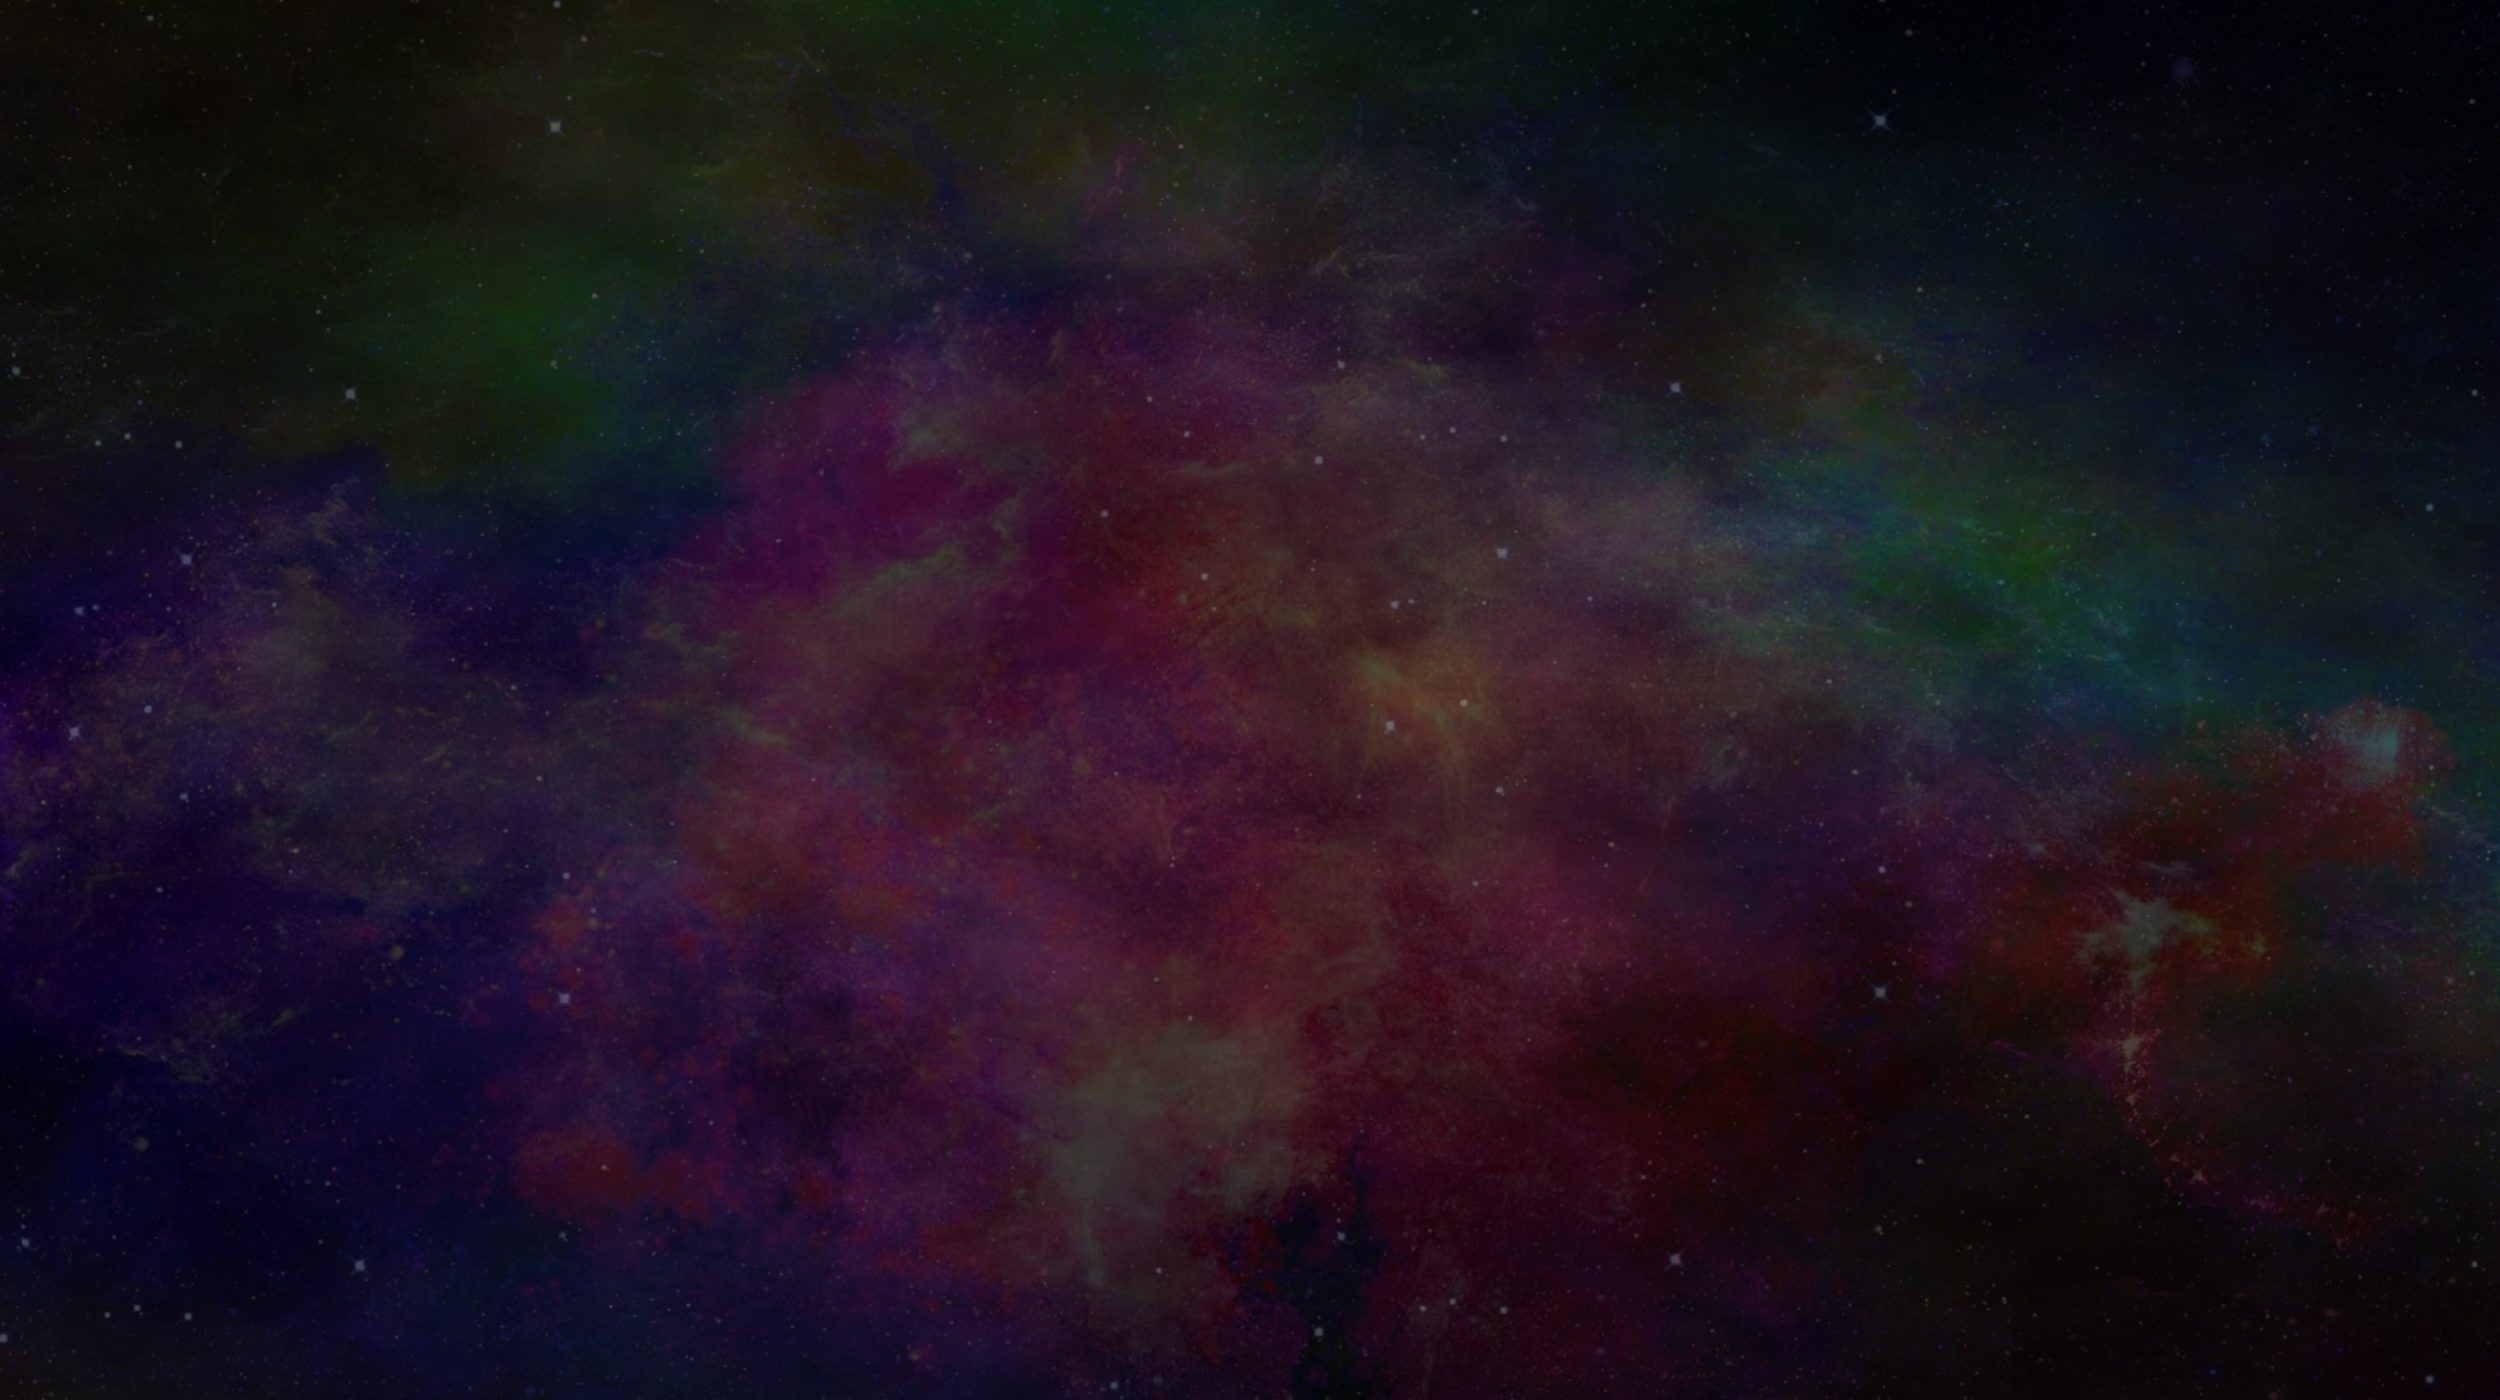
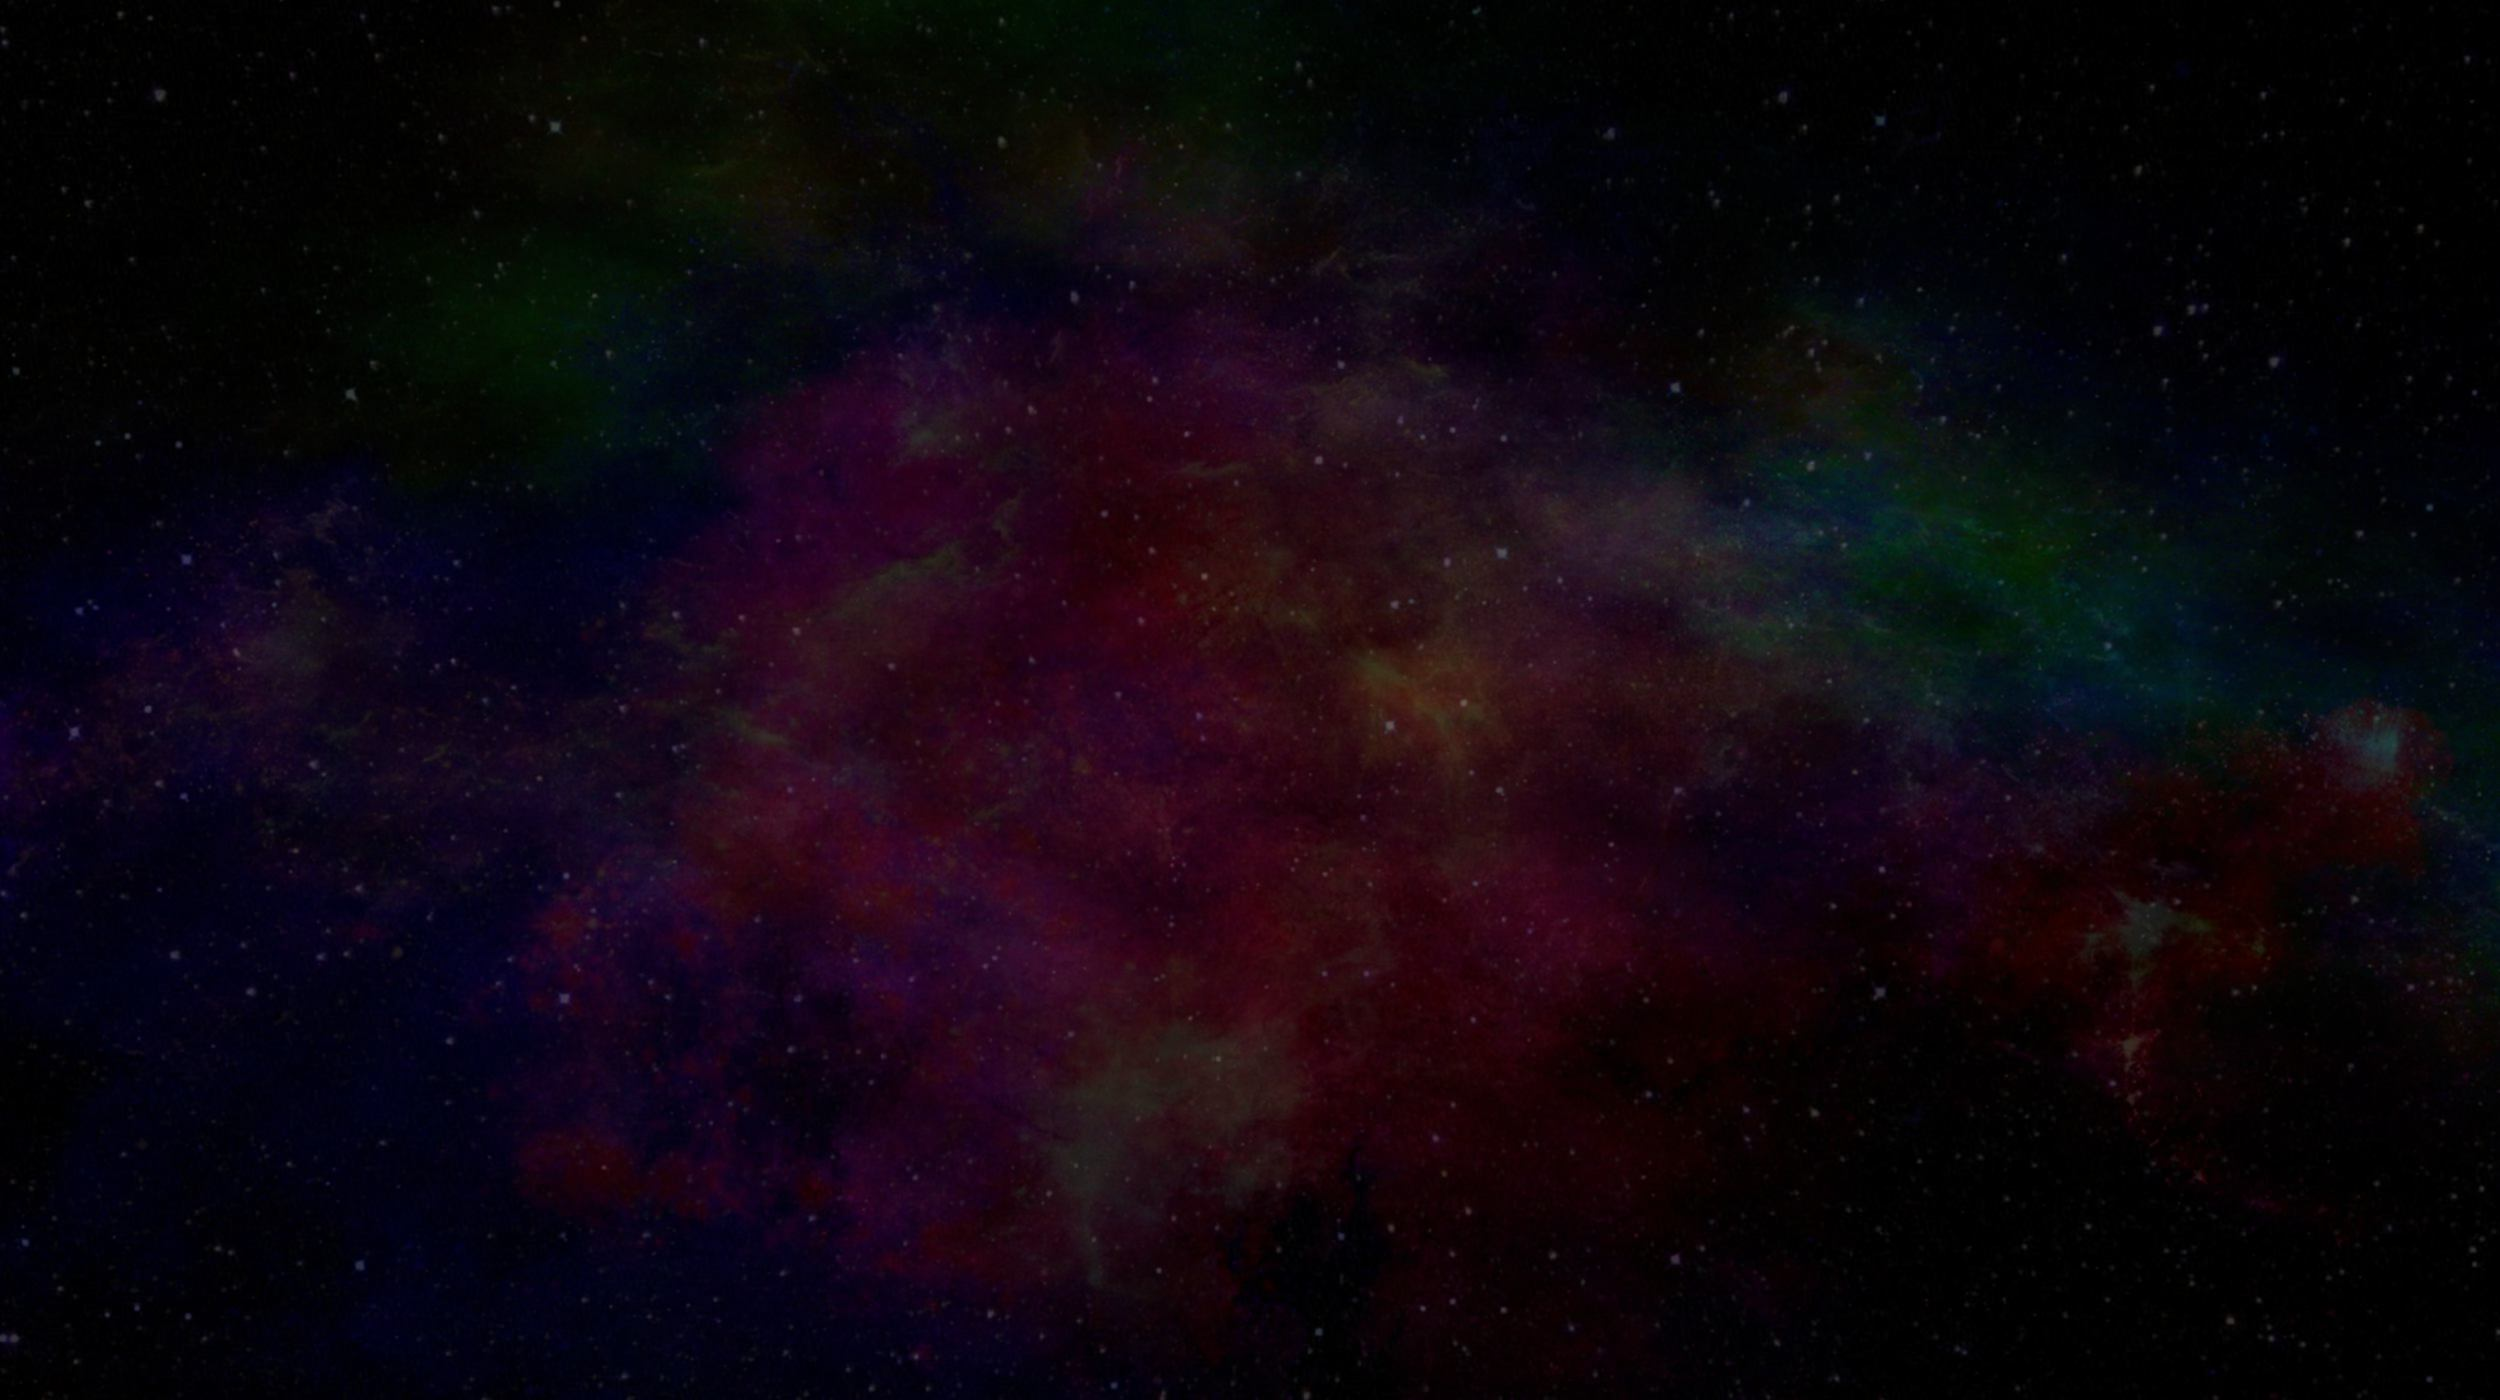
Optimized and added background images.

diff --git a/src/states/play.js b/src/states/play.js
@@ -380,7 +380,7 @@ export class PlayState {
 			}
 		
 		// pick a random nebula background
-		this.bg_img = 'img/map/bg/spacebg_' + ("000" + utils.RandomInt(0,54)).slice(-3) + '.jpg';
+		this.bg_img = 'img/map/bg/spacebg_' + ("000" + utils.RandomInt(0,69)).slice(-3) + '.jpg';
 		this.GetBGDims();
 		
 		// set the initial background size

diff --git a/css/main.css b/css/main.css
@@ -247,7 +247,7 @@ body,html {
 	}
 
 .xtreme_zoom #layout_viewport {
-	background-color: rgba(0,0,0,0.70);
+	background-color: rgba(0,0,0,0.55);
 /* 	background-color: #000; */
 	}
 	
